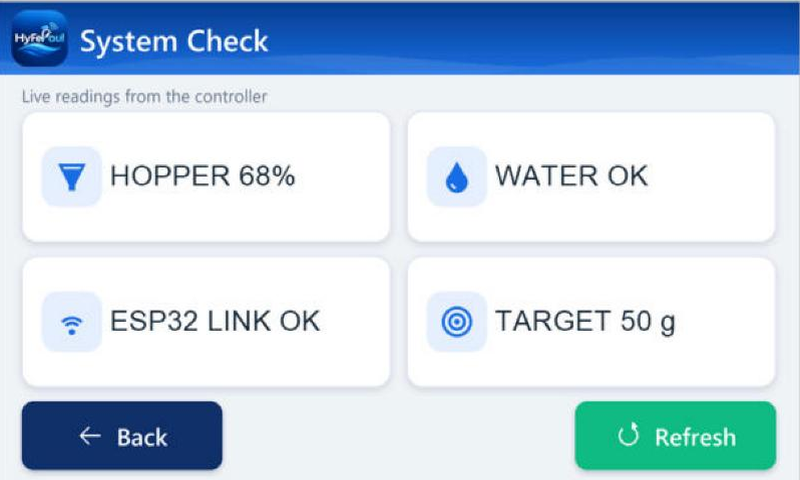
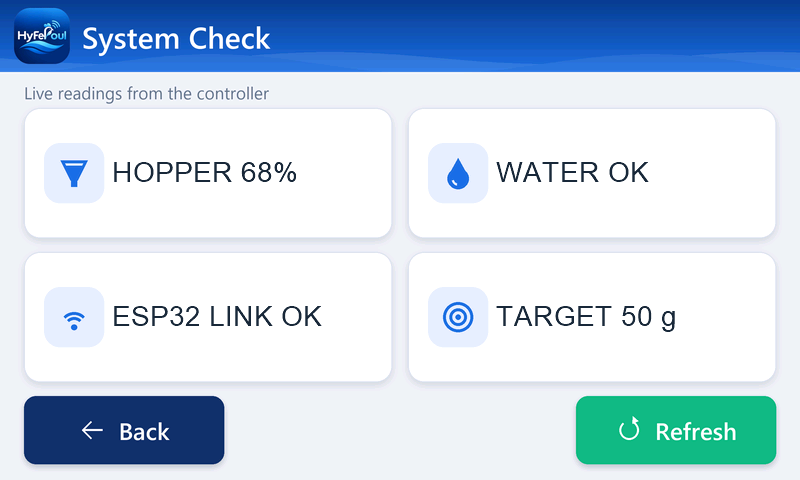
fix(showcase): sharp panel captures, larger app screens, click to enlarge, no stalled fade

diff --git a/showcase/js/main.js b/showcase/js/main.js
@@ -229,7 +229,8 @@ function setupLinks() {
 // Cards in each grid rise in one after another the first time they come into view.
 function setupReveal() {
   if (reduced || !('IntersectionObserver' in window)) return;
-  const groups = ['.head', '.objectives', '.steps', '.functions', '.devices', '.gallery', '.parts', '.stats', '.flow'];
+  // Not the app/panel screens: they sit in a tab that can be hidden, and a fade there could stall.
+  const groups = ['.head', '.objectives', '.steps', '.functions', '.gallery', '.parts', '.stats', '.flow'];
   const io = new IntersectionObserver(es => es.forEach(e => { if (e.isIntersecting) { e.target.classList.add('in'); io.unobserve(e.target); } }), { rootMargin: '0px 0px -8% 0px' });
   groups.forEach(sel => document.querySelectorAll(sel).forEach(g => {
     [...g.children].forEach((c, i) => { c.classList.add('rv'); c.style.setProperty('--d', `${Math.min(i, 8) * 60}ms`); io.observe(c); });
@@ -434,18 +435,26 @@ function renderDiagram() {
 }
 
 // --- App and panel previews ---
-function device(slot, cls) {
+// Each screen opens full size in the lightbox, with Previous and Next through its set.
+function device(slot, cls, set, k) {
   const f = document.createElement('figure'); f.className = 'device ' + cls;
-  const s = document.createElement('div'); s.className = 'screen';
-  if (slot.src) { const i = document.createElement('img'); i.src = slot.src; i.alt = `${slot.title} screen`; i.loading = 'lazy'; s.append(i); }
+  const s = document.createElement(slot.src ? 'button' : 'div'); s.className = 'screen';
+  if (slot.src) {
+    s.type = 'button'; s.setAttribute('aria-label', `Enlarge the ${slot.title} screen`);
+    const i = document.createElement('img'); i.src = slot.src; i.alt = `${slot.title} screen`; s.append(i);
+    s.addEventListener('click', () => {
+      shots = set.filter(x => x.src).map(x => ({ src: x.src, alt: `${x.title} screen`, title: x.title, detail: cls === 'phone' ? 'Mobile app' : 'Touch panel on the machine' }));
+      openShot(shots.findIndex(x => x.src === slot.src));
+    });
+  }
   else s.append(placeholder(`${slot.file}.jpg`, 'photo', 'Screen coming soon'));
   const c = document.createElement('figcaption'); c.textContent = slot.title;
   f.append(s, c);
   return f;
 }
 function renderPreviews() {
-  LIB.app.forEach(s => $('previewApp').append(device(s, 'phone')));
-  LIB.panel.forEach(s => $('previewPanel').append(device(s, 'panel')));
+  LIB.app.forEach((s, k) => $('previewApp').append(device(s, 'phone', LIB.app, k)));
+  LIB.panel.forEach((s, k) => $('previewPanel').append(device(s, 'panel', LIB.panel, k)));
   const tabs = document.querySelectorAll('#previewTabs button');
   tabs.forEach(b => b.addEventListener('click', () => {
     tabs.forEach(x => x.setAttribute('aria-selected', x === b));

diff --git a/showcase/css/styles.css b/showcase/css/styles.css
@@ -139,7 +139,7 @@ button.ph{border:0;cursor:pointer;font-family:var(--font)}
 .device{margin:0}
 .screen{overflow:hidden;background:var(--navy)}
 .screen img{width:100%;height:100%;object-fit:cover}
-.device.phone .screen{aspect-ratio:9/19;border:7px solid #0b1b3d;border-radius:28px;box-shadow:0 18px 40px rgba(3,18,58,.45)}
+.device.phone .screen{aspect-ratio:9/20;border:7px solid #0b1b3d;border-radius:28px;box-shadow:0 18px 40px rgba(3,18,58,.45)}
 .device.panel .screen{aspect-ratio:5/3;border:9px solid #b88f5e;border-radius:6px;box-shadow:0 18px 40px rgba(3,18,58,.45)}
 .device figcaption{margin-top:10px;text-align:center;font-weight:600;font-size:15.5px}
 
@@ -468,3 +468,10 @@ html.present{scrollbar-width:none}
 .diagram .diagram-img{display:block;width:fit-content;max-width:100%;height:auto;border-radius:var(--r);overflow:hidden;box-shadow:var(--shadow);margin:0 auto}
 .diagram .diagram-img img{display:block;width:auto;height:auto;max-width:100%;max-height:calc(100svh - 140px);object-fit:contain}
 .present .diagram .diagram-img img{max-height:calc(100svh - 230px)}
+
+/* App and panel screens: full width of their frame, click to enlarge */
+button.screen{display:block;width:100%;padding:0;cursor:zoom-in;transition:transform .2s ease,box-shadow .2s ease}
+button.screen:hover{transform:translateY(-3px)}
+button.screen:focus-visible{outline:3px solid var(--sky);outline-offset:3px}
+.screen img{display:block}
+.device.panel .screen img{image-rendering:auto}
